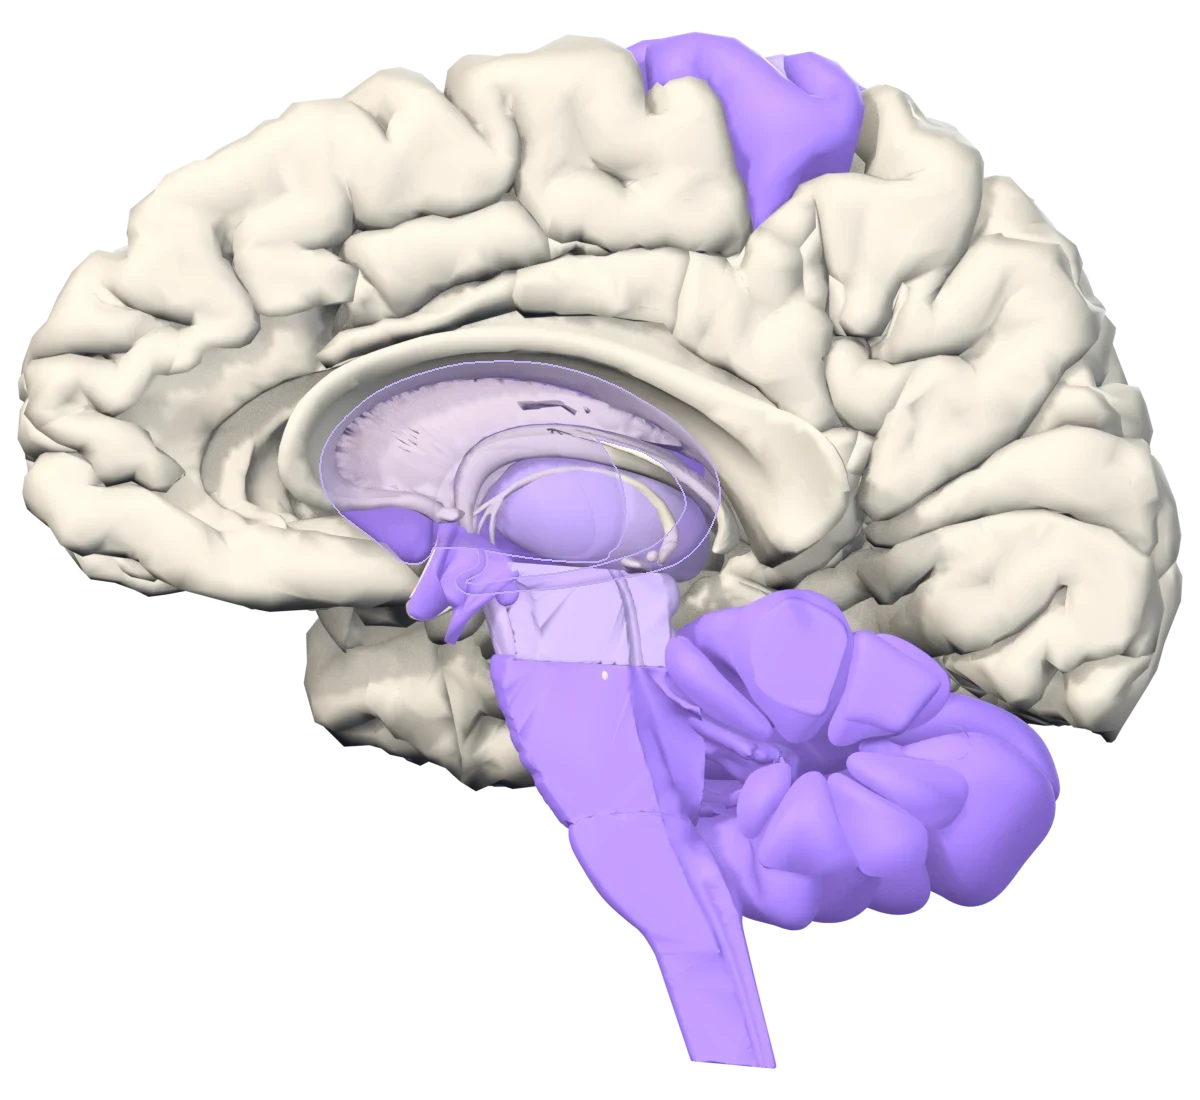
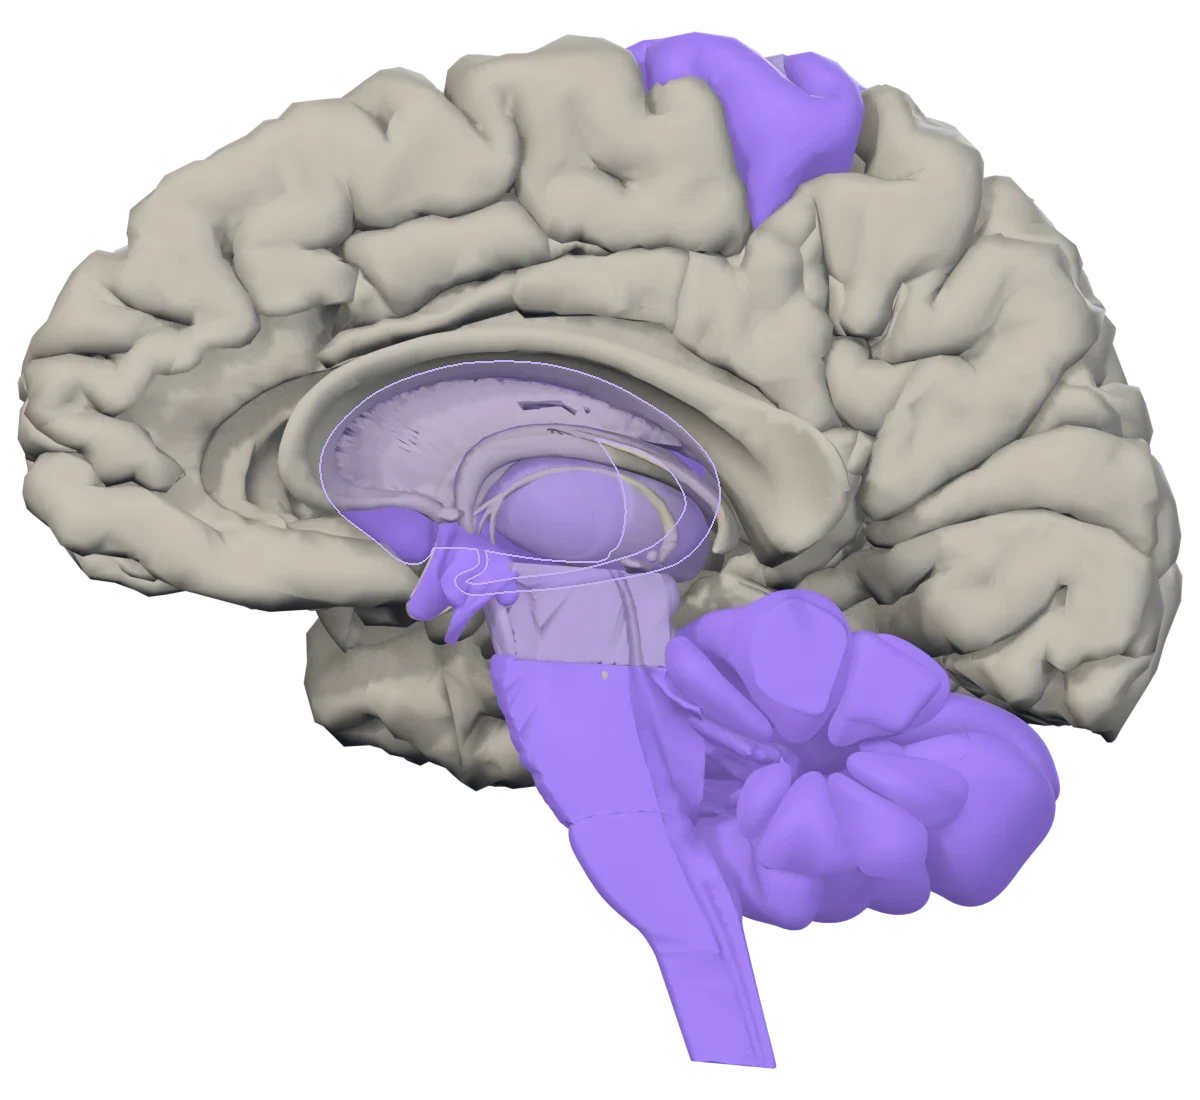
feat(atlas): mózg na świetle biblioteki (bez lokalnego LIGHT_SCALE), nowe rendery; kamera przekroju = kamera z boku w anchors.json

diff --git a/blender/atlas/plate_mozg.py b/blender/atlas/plate_mozg.py
@@ -23,7 +23,6 @@ from mathutils import Vector  # noqa: E402
 
 NERV = "7: Nervous system & Sense organs"
 Z_MIN_BRAIN = 1.535  # wszystko poniżej to rdzeń kręgowy / zabłąkane wierzchołki
-LIGHT_SCALE = 0.6  # mózg jest mały i jasny: słabsze światło, żeby fiolet i kontekst wyszły bliżej tabeli kolorów
 
 # Elementy kolekcji nerwowej, które nie są mózgowiem (narządy zmysłów, rdzeń, opony, płyn mózgowo-rdzeniowy).
 NOT_BRAIN = [
@@ -210,24 +209,13 @@ class BrainPlate(al.Plate):
         return super()._camera(real)
 
     def _lights(self, view):
-        if view not in ("side", "detail"):
-            return super()._lights(view)
-        for o in [o for o in self.scene.collection.objects if o.type == 'LIGHT']:
-            bpy.data.objects.remove(o, do_unlink=True)
-        c = self.center
-        # kamera na +X, przód głowy (-Y) po lewej stronie obrazu: klucz z lewej-góry-przodu, wypełnienie z prawej, kontra z tyłu
-        rigs = [
-            ("key", Vector((2.6, -1.6, 1.4)), 260, 1.6, (1.0, 0.97, 0.93)),
-            ("fill", Vector((2.4, 1.8, 0.2)), 90, 2.0, (0.9, 0.95, 1.0)),
-            ("rim", Vector((-2.6, 0.6, 1.2)), 220, 1.0, (0.85, 0.92, 1.0)),
-        ]
-        for name, rel, power, size, colr in rigs:
-            ld = bpy.data.lights.new(f"ATL_{name}", 'AREA')
-            ld.energy, ld.size, ld.color = power * LIGHT_SCALE, size, colr
-            lo = bpy.data.objects.new(f"ATL_{name}", ld)
-            lo.location = c + rel
-            lo.rotation_euler = (c - lo.location).to_track_quat('-Z', 'Y').to_euler()
-            self.scene.collection.objects.link(lo)
+        # Integracja 1b: światło biblioteki (LIGHT_SCALE/KEY_SCALE z atlas_lib), liczone względem kamery z boku (+X).
+        # Dawniej lokalny zestaw lamp × 0,6 (fiolet wychodził jaśniejszy niż w tabeli kolorów).
+        return super()._lights("side" if view in ("side", "detail") else view)
+
+    def camera_meta(self, view):
+        # Przekrój ('detail') ma tę samą kamerę co widok z boku; bez tego anchors.json dostawał kierunek 'front'.
+        return super().camera_meta("side" if view in ("side", "detail") else view)
 
     def anchor_point(self, obj_names, view):
         """Kotwica na widocznej powierzchni: wierzchołek najbliższy medianie Y/Z wierzchołków najbliższych kamerze (+X).
